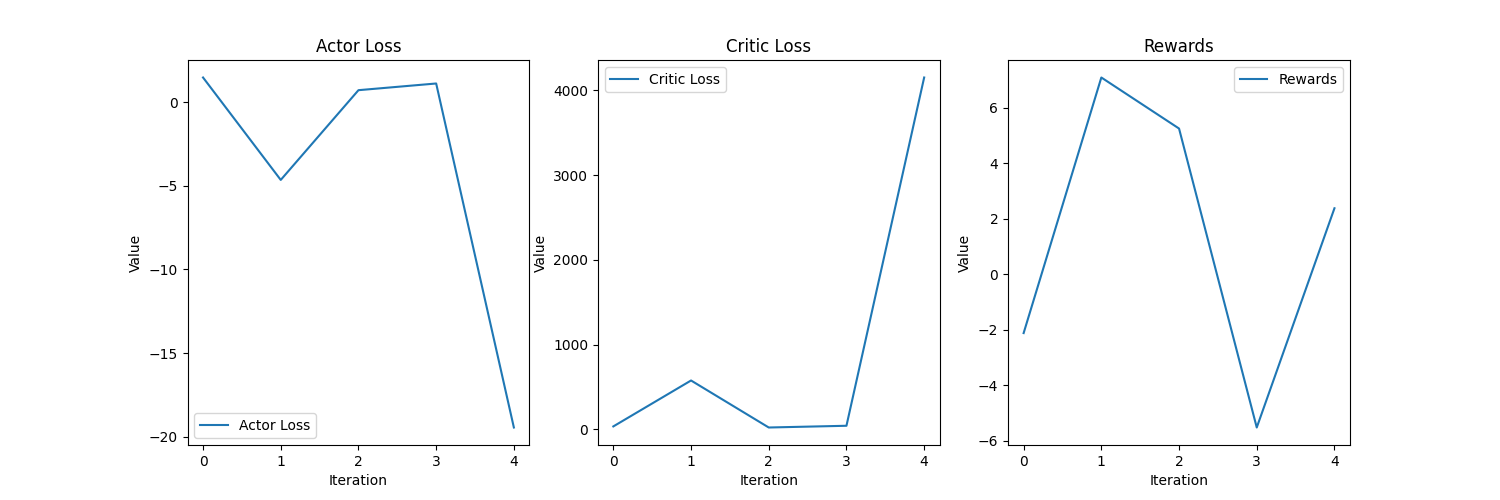
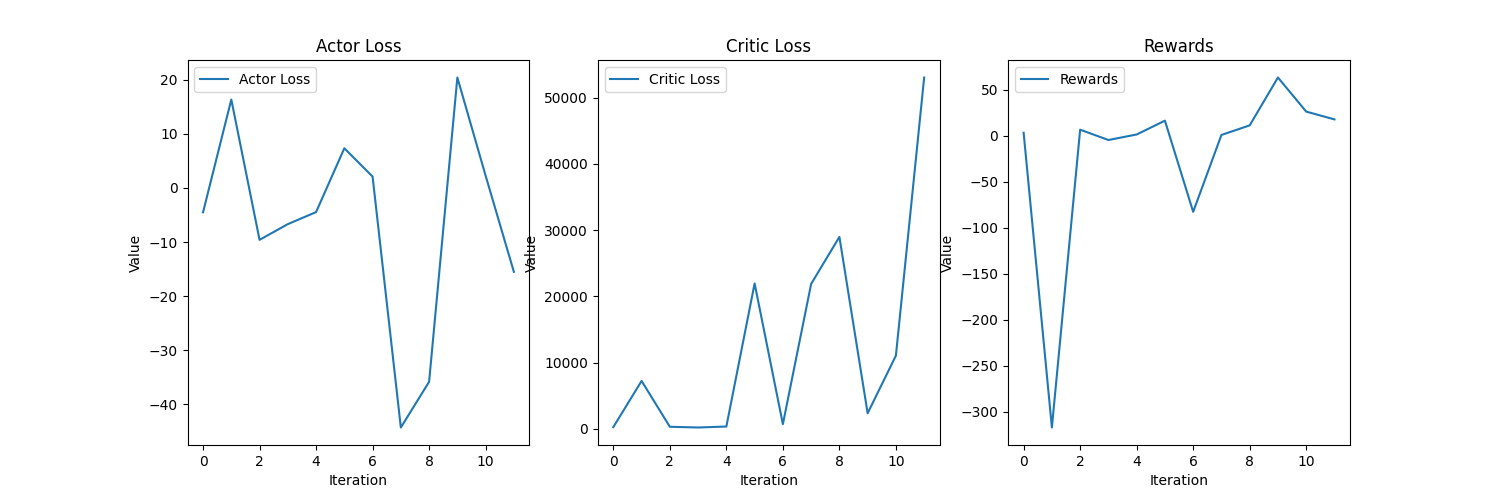
.

diff --git a/model/agent.py b/model/agent.py
@@ -55,9 +55,9 @@ class Agent(nn.Module):
     def scale_actions(self, actions):
         actions = nn.Sigmoid()(actions)
         scaled_actions = torch.zeros_like(actions)
-        a = 0.2
+        a = 0.12
         # x 값을 0.2 ~ 0.8로 스케일링
-        scaled_actions[0][0] = actions[0][0] * 0.6 + 0.2
+        scaled_actions[0][0] = actions[0][0] * (1-a) + a
         # r 값을 0~0.2로 스케일링
         scaled_actions[0][1] = actions[0][1] * a
 

diff --git a/main.py b/main.py
@@ -6,13 +6,13 @@ from utils import set_seed
 
 ENV_NAME = "AirfoilEnv"
 num_points = 49
-epochs = 10
+epochs = 20
 n_iterations = 100
 
 T = 5
 clip_range = 0.2
 beta = 0.03  # 엔트로피 항에 대한 가중치
-mini_batch_size = 10
+mini_batch_size = 32
 batch_size = 16
 processes = batch_size
 learning_rate = 1e-4
